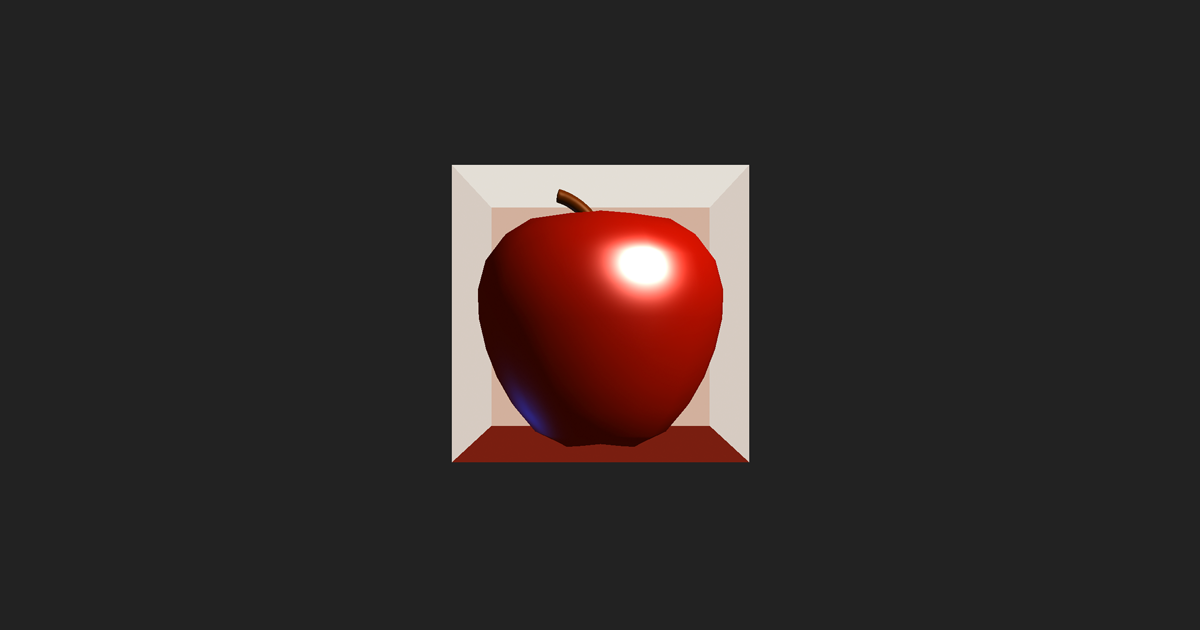
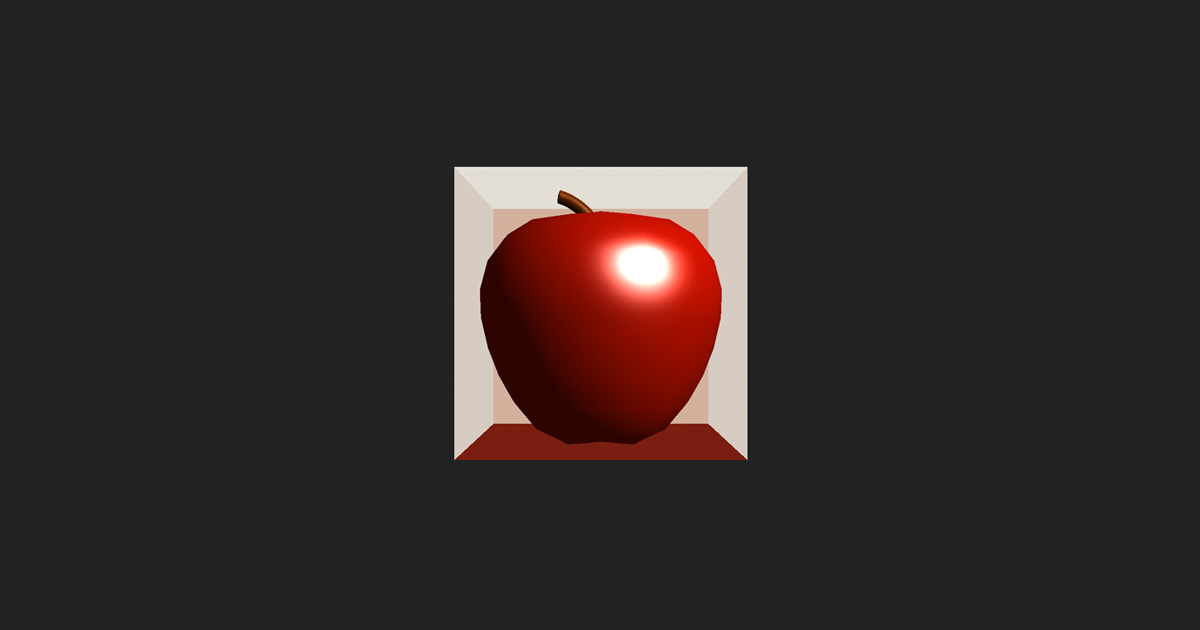
Change light

Changed region(s): [[0.37, 0.2413, 0.6167, 0.754], [0.4317, 0.3016, 0.5858, 0.3619], [0.555, 0.6635, 0.5858, 0.6937]]

diff --git a/docs/assets/css/styles.css b/docs/assets/css/styles.css
@@ -2,4 +2,4 @@
  * ress.css • v1.2.2
  * MIT License
  * github.com/filipelinhares/ress
- */html{box-sizing:border-box;overflow-y:scroll;-webkit-text-size-adjust:100%}*,:before,:after{background-repeat:no-repeat;box-sizing:inherit}:before,:after{text-decoration:inherit;vertical-align:inherit}*{padding:0;margin:0}audio:not([controls]){display:none;height:0}hr{overflow:visible}article,aside,details,figcaption,figure,footer,header,main,menu,nav,section,summary{display:block}summary{display:list-item}small{font-size:80%}[hidden],template{display:none}abbr[title]{border-bottom:1px dotted;text-decoration:none}a{background-color:transparent;-webkit-text-decoration-skip:objects}a:active,a:hover{outline-width:0}code,kbd,pre,samp{font-family:monospace,monospace}b,strong{font-weight:bolder}dfn{font-style:italic}mark{background-color:#ff0;color:#000}sub,sup{font-size:75%;line-height:0;position:relative;vertical-align:baseline}sub{bottom:-.25em}sup{top:-.5em}input{border-radius:0}button,[type=button],[type=reset],[type=submit],[role=button]{cursor:pointer}[disabled]{cursor:default}[type=number]{width:auto}[type=search]{-webkit-appearance:textfield}[type=search]::-webkit-search-cancel-button,[type=search]::-webkit-search-decoration{-webkit-appearance:none}textarea{overflow:auto;resize:vertical}button,input,optgroup,select,textarea{font:inherit}optgroup{font-weight:700}button{overflow:visible}button::-moz-focus-inner,[type=button]::-moz-focus-inner,[type=reset]::-moz-focus-inner,[type=submit]::-moz-focus-inner{border-style:0;padding:0}button:-moz-focusring,[type=button]::-moz-focus-inner,[type=reset]::-moz-focus-inner,[type=submit]::-moz-focus-inner{outline:1px dotted ButtonText}button,html [type=button],[type=reset],[type=submit]{-webkit-appearance:button}button,select{text-transform:none}button,input,select,textarea{background-color:transparent;border-style:none;color:inherit}select{-moz-appearance:none;-webkit-appearance:none}select::-ms-expand{display:none}select::-ms-value{color:currentColor}legend{border:0;color:inherit;display:table;max-width:100%;white-space:normal}::-webkit-file-upload-button{-webkit-appearance:button;font:inherit}[type=search]{-webkit-appearance:textfield;outline-offset:-2px}img{border-style:none}progress{vertical-align:baseline}svg:not(:root){overflow:hidden}audio,canvas,progress,video{display:inline-block}@media screen{[hidden~=screen]{display:inherit}[hidden~=screen]:not(:active):not(:focus):not(:target){position:absolute!important;clip:rect(0 0 0 0)!important}}[aria-busy=true]{cursor:progress}[aria-controls]{cursor:pointer}[aria-disabled]{cursor:default}::-moz-selection{background-color:#b3d4fc;color:#000;text-shadow:none}::selection{background-color:#b3d4fc;color:#000;text-shadow:none}ul{list-style-type:none}a{text-decoration:none}html{font-size:62.5%;-webkit-font-smoothing:antialiased;-moz-osx-font-smoothing:grayscale}body{-webkit-text-size-adjust:100%;font-family:-apple-system,BlinkMacSystemFont,Helvetica Neue,Yu Gothic,YuGothic,Verdana,Meiryo,"M+ 1p",sans-serif;font-size:14px;font-size:1.4rem;color:#000;background:#222}html,body{height:100%;overflow:hidden}
+ */html{box-sizing:border-box;overflow-y:scroll;-webkit-text-size-adjust:100%}*,:before,:after{background-repeat:no-repeat;box-sizing:inherit}:before,:after{text-decoration:inherit;vertical-align:inherit}*{padding:0;margin:0}audio:not([controls]){display:none;height:0}hr{overflow:visible}article,aside,details,figcaption,figure,footer,header,main,menu,nav,section,summary{display:block}summary{display:list-item}small{font-size:80%}[hidden],template{display:none}abbr[title]{border-bottom:1px dotted;text-decoration:none}a{background-color:transparent;-webkit-text-decoration-skip:objects}a:active,a:hover{outline-width:0}code,kbd,pre,samp{font-family:monospace,monospace}b,strong{font-weight:bolder}dfn{font-style:italic}mark{background-color:#ff0;color:#000}sub,sup{font-size:75%;line-height:0;position:relative;vertical-align:baseline}sub{bottom:-.25em}sup{top:-.5em}input{border-radius:0}button,[type=button],[type=reset],[type=submit],[role=button]{cursor:pointer}[disabled]{cursor:default}[type=number]{width:auto}[type=search]{-webkit-appearance:textfield}[type=search]::-webkit-search-cancel-button,[type=search]::-webkit-search-decoration{-webkit-appearance:none}textarea{overflow:auto;resize:vertical}button,input,optgroup,select,textarea{font:inherit}optgroup{font-weight:700}button{overflow:visible}button::-moz-focus-inner,[type=button]::-moz-focus-inner,[type=reset]::-moz-focus-inner,[type=submit]::-moz-focus-inner{border-style:0;padding:0}button:-moz-focusring,[type=button]::-moz-focus-inner,[type=reset]::-moz-focus-inner,[type=submit]::-moz-focus-inner{outline:1px dotted ButtonText}button,html [type=button],[type=reset],[type=submit]{-webkit-appearance:button}button,select{text-transform:none}button,input,select,textarea{background-color:transparent;border-style:none;color:inherit}select{-moz-appearance:none;-webkit-appearance:none}select::-ms-expand{display:none}select::-ms-value{color:currentColor}legend{border:0;color:inherit;display:table;max-width:100%;white-space:normal}::-webkit-file-upload-button{-webkit-appearance:button;font:inherit}[type=search]{-webkit-appearance:textfield;outline-offset:-2px}img{border-style:none}progress{vertical-align:baseline}svg:not(:root){overflow:hidden}audio,canvas,progress,video{display:inline-block}@media screen{[hidden~=screen]{display:inherit}[hidden~=screen]:not(:active):not(:focus):not(:target){position:absolute!important;clip:rect(0 0 0 0)!important}}[aria-busy=true]{cursor:progress}[aria-controls]{cursor:pointer}[aria-disabled]{cursor:default}::-moz-selection{background-color:#b3d4fc;color:#000;text-shadow:none}::selection{background-color:#b3d4fc;color:#000;text-shadow:none}ul{list-style-type:none}a{text-decoration:none}html{font-size:62.5%;-webkit-font-smoothing:antialiased;-moz-osx-font-smoothing:grayscale}body{-webkit-text-size-adjust:100%;font-family:-apple-system,BlinkMacSystemFont,Helvetica Neue,Yu Gothic,YuGothic,Verdana,Meiryo,"M+ 1p",sans-serif;font-size:14px;font-size:1.4rem;color:#000;background:#222;opacity:0;-ms-filter:"progid:DXImageTransform.Microsoft.Alpha(Opacity=0)";overflow:hidden}body.-complete{opacity:1;-ms-filter:"progid:DXImageTransform.Microsoft.Alpha(Opacity=100)";transition:opacity 1s ease}html,body{height:100%;overflow:hidden}canvas{width:100%;height:100%;position:fixed;top:0;left:0}

diff --git a/docs/assets/js/scripts.js b/docs/assets/js/scripts.js
@@ -1,1 +1,1 @@
-function init(){function e(){t.render(i,camera),requestAnimationFrame(e)}var o=window.innerWidth,a=window.innerHeight,t=new THREE.WebGLRenderer({canvas:document.querySelector("#room")});t.setPixelRatio(window.devicePixelRatio),t.setSize(o,a),t.setClearColor(2236962);var i=new THREE.Scene,n=new THREE.PerspectiveCamera(45,o/a,1,1e4);new THREE.OrthographicCamera(o/-2,o/2,a/2,a/-2,1,1e4);camera=n,camera.position.set(0,0,100),camera.up.set(0,1,0),camera.lookAt({x:0,y:0,z:0});var r=new THREE.DirectionalLight(16777215);r.position.set(1,1,1),i.add(r);var E=new THREE.DirectionalLight(8840);E.position.set(-1,-1,-1),i.add(E);var s=new THREE.AmbientLight(4473924);i.add(s),controls=new THREE.OrbitControls(camera);var d=new THREE.Group;d.position.set(0,1.2,-16),i.add(d);var l=new THREE.PlaneGeometry(31,31,31),c=new THREE.MeshBasicMaterial({color:13807773,side:THREE.DoubleSide}),w=new THREE.Mesh(l,c);d.add(w);var R=new THREE.PlaneGeometry(31,31,31),H=new THREE.MeshBasicMaterial({color:14076865,side:THREE.DoubleSide}),T=new THREE.Mesh(R,H);T.position.x=-15.5,T.position.z=15.5,T.rotation.y=Math.PI/2,d.add(T);var p=new THREE.PlaneGeometry(31,31,31),m=new THREE.MeshBasicMaterial({color:14076865,side:THREE.DoubleSide}),h=new THREE.Mesh(p,m);h.position.x=15.5,h.position.z=15.5,h.rotation.y=Math.PI/2,d.add(h);var b=new THREE.PlaneGeometry(31,31,31),M=new THREE.MeshBasicMaterial({color:14933718,side:THREE.DoubleSide}),u=new THREE.Mesh(b,M);u.position.y=15.5,u.position.z=15.5,u.rotation.x=Math.PI/2,d.add(u);var v=new THREE.PlaneGeometry(31,31,31),P=new THREE.MeshBasicMaterial({color:7937552,side:THREE.DoubleSide}),j=new THREE.Mesh(v,P);j.position.y=-15.5,j.position.z=15.5,j.rotation.x=Math.PI/2,d.add(j);var y=function(e){if(e.lengthComputable)e.loaded,e.total},D=function(e){},L=new THREE.MTLLoader;L.setPath("assets/obj/apple/"),L.load("apple.mtl",function(e){e.preload();var o=new THREE.OBJLoader;o.setMaterials(e),o.setPath("assets/obj/apple/"),o.load("apple.obj",function(e){objmodel=e.clone(),objmodel.scale.set(5,5,5),objmodel.rotation.set(0,0,0),objmodel.position.set(0,0,0),obj=new THREE.Object3D,obj.add(objmodel),i.add(obj)},y,D)}),e()}window.addEventListener("load",init);
+function init(){function e(){t.render(i,camera),requestAnimationFrame(e)}var o=window.innerWidth,a=window.innerHeight,t=new THREE.WebGLRenderer({canvas:document.querySelector("#room")});t.setPixelRatio(window.devicePixelRatio),t.setSize(o,a),t.setClearColor(2236962);var i=new THREE.Scene,n=new THREE.PerspectiveCamera(45,o/a,1,1e4);camera=n,camera.position.set(0,0,100),camera.up.set(0,1,0),camera.lookAt({x:0,y:0,z:0});var r=new THREE.DirectionalLight(16777215);r.position.set(1,1,1),i.add(r);var s=new THREE.AmbientLight(4473924);i.add(s),controls=new THREE.OrbitControls(camera);var E=new THREE.Group;E.position.set(0,1.15,-16),i.add(E);var d=new THREE.PlaneGeometry(31,31,31),l=new THREE.MeshBasicMaterial({color:13807773,side:THREE.DoubleSide}),c=new THREE.Mesh(d,l);E.add(c);var w=new THREE.PlaneGeometry(31,31,31),R=new THREE.MeshBasicMaterial({color:14076865,side:THREE.DoubleSide}),H=new THREE.Mesh(w,R);H.position.x=-15.5,H.position.z=15.5,H.rotation.y=Math.PI/2,E.add(H);var T=new THREE.PlaneGeometry(31,31,31),m=new THREE.MeshBasicMaterial({color:14076865,side:THREE.DoubleSide}),p=new THREE.Mesh(T,m);p.position.x=15.5,p.position.z=15.5,p.rotation.y=Math.PI/2,E.add(p);var b=new THREE.PlaneGeometry(31,31,31),h=new THREE.MeshBasicMaterial({color:14933718,side:THREE.DoubleSide}),M=new THREE.Mesh(b,h);M.position.y=15.5,M.position.z=15.5,M.rotation.x=Math.PI/2,E.add(M);var u=new THREE.PlaneGeometry(31,31,31),v=new THREE.MeshBasicMaterial({color:7937552,side:THREE.DoubleSide}),P=new THREE.Mesh(u,v);P.position.y=-15.5,P.position.z=15.5,P.rotation.x=Math.PI/2,E.add(P);var j=function(e){if(e.lengthComputable)e.loaded,e.total},y=function(e){},L=new THREE.MTLLoader;L.setPath("assets/obj/apple/"),L.load("apple.mtl",function(e){e.preload();var o=new THREE.OBJLoader;o.setMaterials(e),o.setPath("assets/obj/apple/"),o.load("apple.obj",function(e){objmodel=e.clone(),objmodel.scale.set(5,5,5),objmodel.rotation.set(0,0,0),objmodel.position.set(0,0,0),obj=new THREE.Object3D,obj.add(objmodel),i.add(obj),document.body.classList.add("-complete")},j,y)}),e()}window.addEventListener("load",init);

diff --git a/app/dev/assets/js/scripts.js b/app/dev/assets/js/scripts.js
@@ -31,7 +31,6 @@ function init() {
   // camera ------------------------------
   // カメラを作成
   var perscamera = new THREE.PerspectiveCamera(45, width / height, 1, 10000);
-  var orthocamera = new THREE.OrthographicCamera(width / -2, width / 2, height / 2, height / -2, 1, 10000);
   camera = perscamera;
   //camera.position.set(100, 100, 100);
   camera.position.set(0, 0, 100);
@@ -45,13 +44,9 @@ function init() {
   light1.position.set(1, 1, 1);
   scene.add(light1);
 
-  var light2 = new THREE.DirectionalLight(0x002288);
-  light2.position.set(-1, -1, -1);
-  scene.add(light2);
-
   // 環境光
-  var light3 = new THREE.AmbientLight(0x444444);
-  scene.add(light3);
+  var light2 = new THREE.AmbientLight(0x444444);
+  scene.add(light2);
 
   controls = new THREE.OrbitControls(camera);
 
@@ -60,7 +55,7 @@ function init() {
   // 平面のグループを作る
   var group = new THREE.Group();
   // グループの位置を指定
-  group.position.set(0, 1.2, -16);
+  group.position.set(0, 1.15, -16);
   // 3D空間にグループを追加する
   scene.add(group);
 
@@ -168,6 +163,8 @@ function init() {
       obj.add(objmodel);
       // sceneに追加
       scene.add(obj);
+
+      document.body.classList.add('-complete');
     }, onProgress, onError);
   });
 

diff --git a/docs/index.html b/docs/index.html
@@ -4,7 +4,7 @@
 <meta charset="UTF-8">
 <meta http-equiv="X-UA-Compatible" content="IE=edge">
 <meta name="format-detection" content="telephone=no">
-<meta name="viewport" content="width=device-width">
+<meta name="viewport" content="width=device-width, initial-scale=1"/>
 <meta name="description" content="" />
 <!--OGP start-->
 <meta property="og:type" content="website" />

diff --git a/app/dev/assets/sass/_common/__layout.scss b/app/dev/assets/sass/_common/__layout.scss
@@ -16,4 +16,10 @@ body{
   font-size: 1.4rem;
   color: $color-black;
   background: #222222;
+  opacity: 0;
+  overflow: hidden;
+  &.-complete{
+    opacity: 1;
+    transition: opacity 1s ease;
+  }
 }

diff --git a/app/dev/assets/sass/_styles/_styles.scss b/app/dev/assets/sass/_styles/_styles.scss
@@ -8,3 +8,11 @@ html, body{
   height: 100%;
   overflow: hidden;
 }
+
+canvas{
+  width: 100%;
+  height: 100%;
+  position: fixed;
+  top: 0;
+  left: 0;
+}
